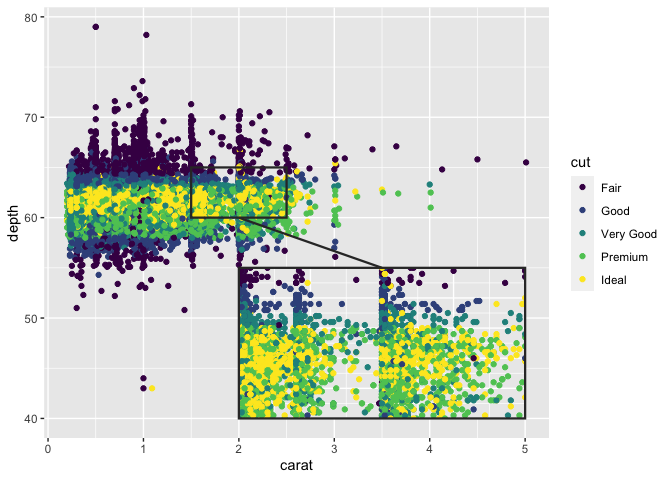
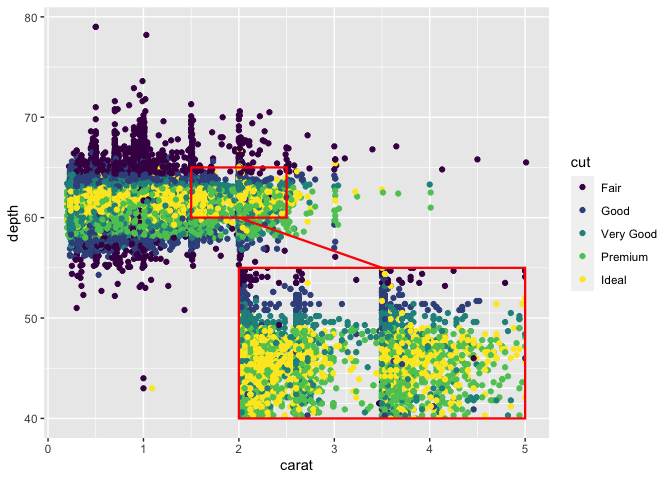
Tweak docs and readme

Changed region(s): [[0.3438, 0.5, 0.7812, 0.875], [0.2812, 0.3438, 0.4375, 0.5]]

diff --git a/README.md b/README.md
@@ -48,19 +48,6 @@ ggmagnify(ggp,
 
 <img src="man/figures/README-example-position-1.png" width="100%" />
 
-## Inset with shadow
-
-``` r
-
-library(ggfx)
-
-ggmagnify(ggp,
-          xlim = c(1.5, 2.5), ylim = c(60, 65),
-          inset_xlim = c(2, 5), inset_ylim = c(40, 55), shadow = TRUE)
-```
-
-<img src="man/figures/README-example-shadow-1.png" width="100%" />
-
 ## Colours and lines
 
 ``` r
@@ -69,7 +56,7 @@ ggmagnify(ggp,
           xlim = c(1.5, 2.5), ylim = c(60, 65),
           inset_xlim = c(2, 5), inset_ylim = c(40, 55), 
           proj = "single",
-          colour = "grey20", proj_linetype = 1, linewidth = 0.8)
+          colour = "red", proj_linetype = 1, linewidth = 0.8)
 ```
 
 <img src="man/figures/README-example-colours-1.png" width="100%" />
@@ -85,6 +72,19 @@ ggmagnify(ggp,
 ```
 
 <img src="man/figures/README-example-axes-1.png" width="100%" />
+
+## Inset with shadow
+
+``` r
+
+library(ggfx)
+
+ggmagnify(ggp,
+          xlim = c(1.5, 2.5), ylim = c(60, 65),
+          inset_xlim = c(2, 5), inset_ylim = c(40, 55), shadow = TRUE)
+```
+
+<img src="man/figures/README-example-shadow-1.png" width="100%" />
 
 ## Inset outside the plot region
 
